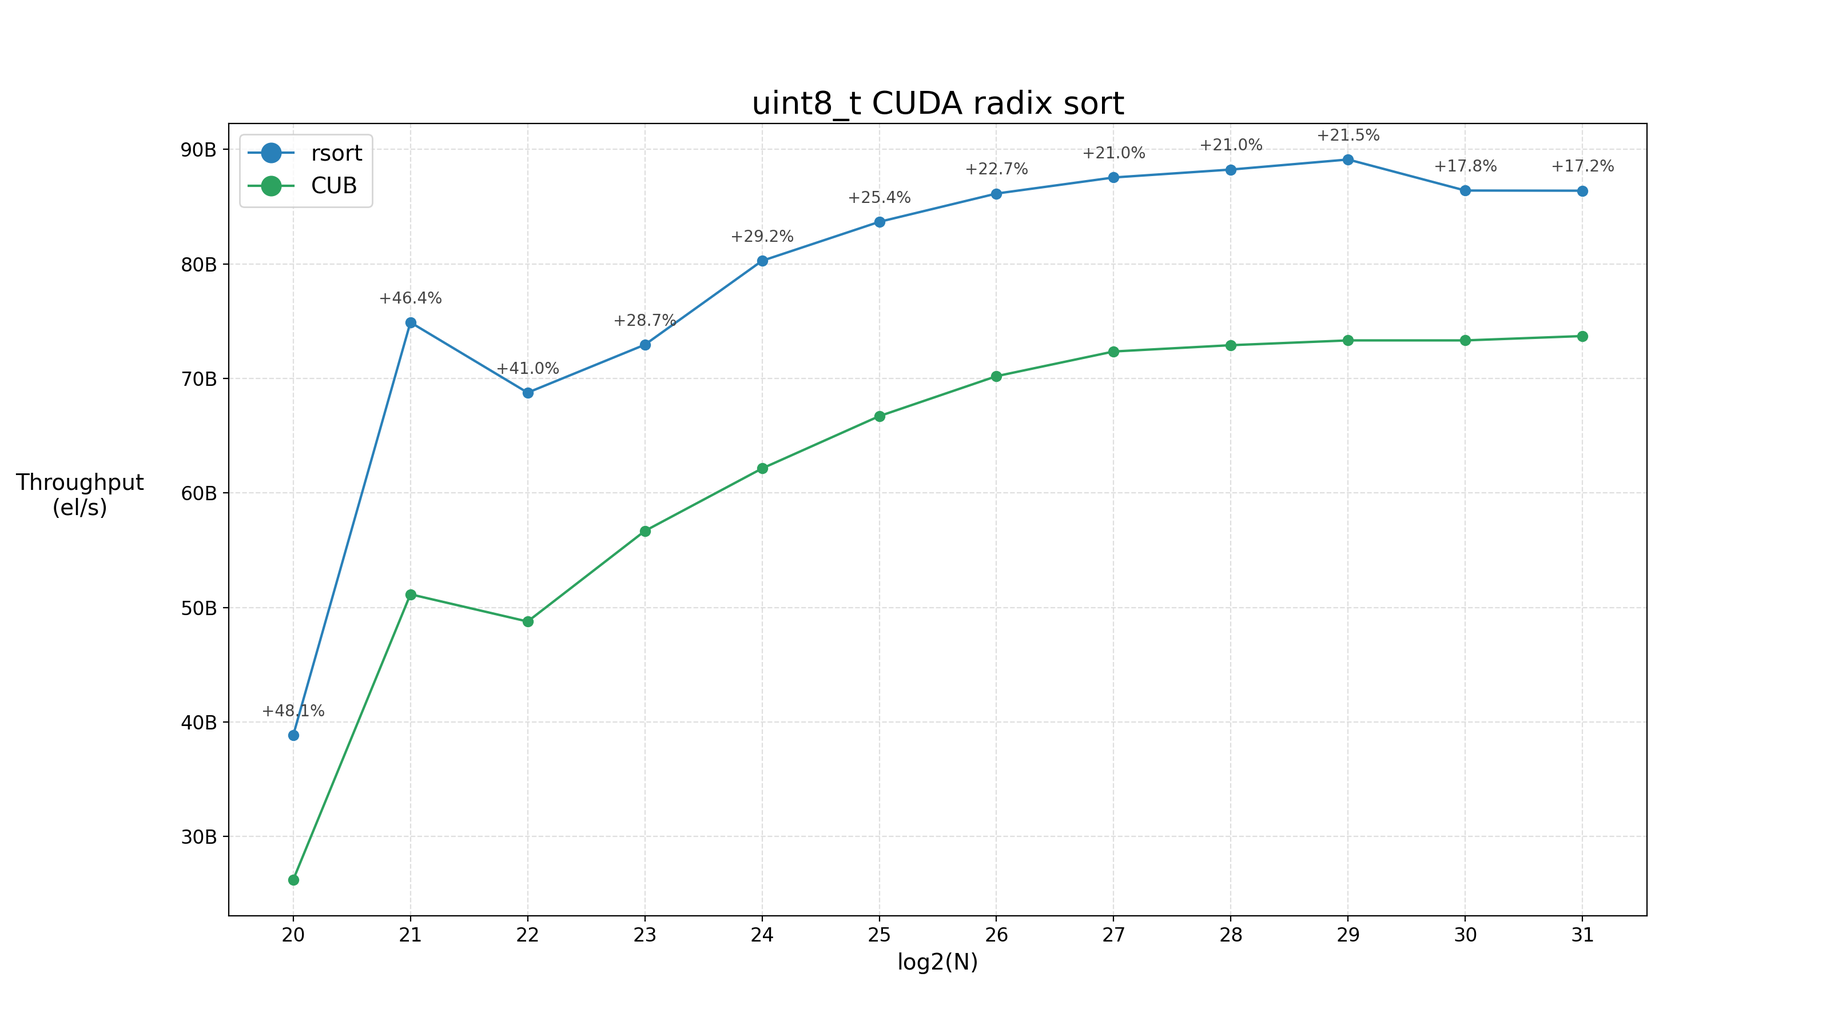
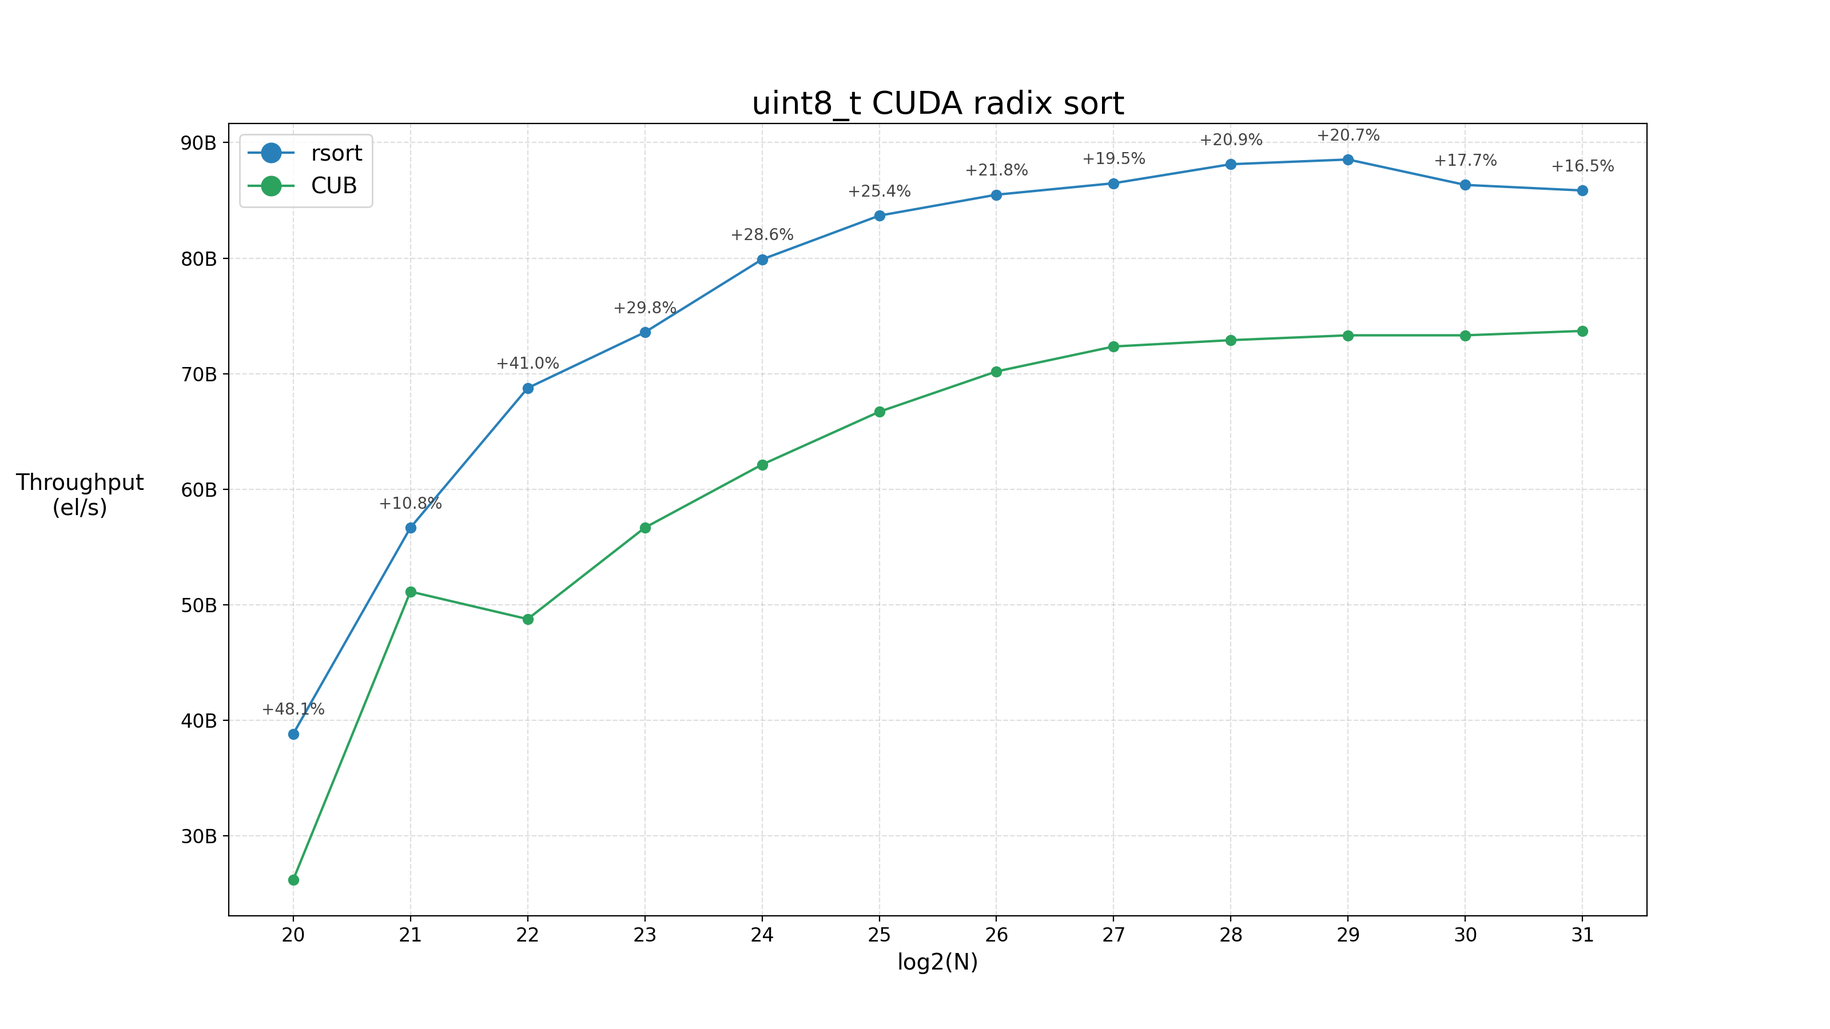
monolithic fixes, benchmark update

diff --git a/graphs/benchmark_data.py b/graphs/benchmark_data.py
@@ -16,7 +16,7 @@ scaling_avg = {
         29: (6.064 , 6.024, 7.322),
         30: (12.437, 12.426, 14.644),
         31: (25.013, 24.856, 29.137),
-        32: (49.824, 49.651, np.nan),
+        #32: (49.824, 49.651, np.nan),
     },
     "uint16_t": {
         20: (0.041 , 0.040, 0.074),
@@ -30,7 +30,7 @@ scaling_avg = {
         28: (4.521 , 4.535, 7.760),
         29: (9.013 , 9.045, 15.308),
         30: (19.145, 19.195, 30.579),
-        31: (38.705, 38.696, np.nan),
+        #31: (38.705, 38.696, np.nan),
     },
     "uint32_t": {
         20: (0.074 , 0.076, 0.088),
@@ -43,7 +43,7 @@ scaling_avg = {
         27: (5.983 , 5.990, 6.174),
         28: (12.028, 12.027, 12.261),
         29: (24.006, 24.035, 24.628),
-        30: (49.257, 49.288, np.nan),
+        #30: (49.257, 49.288, np.nan),
     },
     "uint64_t": {
         20: (0.221 , 0.247, 0.234),
@@ -55,7 +55,7 @@ scaling_avg = {
         26: (11.240, 11.393, 11.811),
         27: (22.382, 22.691, 23.591),
         28: (45.227, 46.044, 47.250),
-        29: (90.581, 92.019, np.nan),
+        #29: (90.581, 92.019, np.nan),
     },
 }
 
@@ -74,7 +74,7 @@ scaling_std = {
         29: (9.902, 15.473, 11.450),
         30: (26.406, 41.827, 41.858),
         31: (137.352, 159.801, 149.216),
-		32: (114.304, 101.326, np.nan),
+		#32: (114.304, 101.326, np.nan),
     },
 
     "uint16_t": {
@@ -89,7 +89,7 @@ scaling_std = {
         28: (2.659, 2.058, 11.064),
         29: (3.679, 2.615, 33.709),
         30: (188.889, 114.930, 221.188),
-        31: (174.418, 162.851, np.nan),
+        #31: (174.418, 162.851, np.nan),
     },
 
     "uint32_t": {
@@ -103,7 +103,7 @@ scaling_std = {
         27: (2.170, 3.884, 4.694),
         28: (8.526, 8.634, 23.467),
         29: (48.290, 100.056, 261.894),
-        30: (281.345, 313.691, np.nan),
+        #30: (281.345, 313.691, np.nan),
     },
 
     "uint64_t": {
@@ -116,7 +116,7 @@ scaling_std = {
         26: (6.888, 7.449, 7.551),
         27: (16.309, 23.859, 14.682),
         28: (226.099, 92.214, 40.631),
-        29: (453.433, 140.956, np.nan),
+        #29: (453.433, 140.956, np.nan),
     }
 }
 
@@ -164,7 +164,7 @@ data_cold_raw = {
             6.038, 6.029, 6.031, 6.034, 6.033, 6.035, 6.033, 6.033, 6.035, 6.032,
             6.033, 6.031, 6.028, 6.039, 6.031, 6.032, 6.033, 6.032, 6.038, 6.033,
             6.030, 6.035, 6.033, 6.032, 6.030, 6.035, 6.035, 6.033, 6.031, 6.033,
-        ],        
+        ],
         "cub": [
             6.235, 6.230, 6.228, 6.238, 6.237, 6.238, 6.224, 6.234, 6.242, 6.239,
             6.237, 6.237, 6.229, 6.227, 6.228, 6.235, 6.234, 6.235, 6.233, 6.233,

diff --git a/README.md b/README.md
@@ -1,7 +1,7 @@
 # Fast CUDA Radix Sort
 
 
-A CUDA implementation of Radix Sort based on [NVIDIA CUB's](https://github.com/NVIDIA/cccl/tree/main/cub) onesweep.
+A CUDA implementation of LSD radix sort based on [NVIDIA CUB's](https://github.com/NVIDIA/cccl/tree/main/cub) onesweep.
 
 Initially motivated by the GPUOpen article on [boosting GPU radix sort performance](https://gpuopen.com/learn/boosting_gpu_radix_sort/), this project started as a small educational endeavour to get familiar with CUDA and delve deeper into C++.
 The original goal was simply to build a radix sort for the GPU from scratch, without relying on third-party kernels.
@@ -219,9 +219,9 @@ It's interesting to note the drop in throughput from 2<sup>28</sup> elements onw
   <img src="graphs/scaling_uint64_t.png" width="48%" />
 </p>
 
-For 64-bit keys, the story changes slightly. Whereas rsort had the biggest advantage for 32-bit keys of smaller sizes, CUB now stays ahead for arrays of 2<sup>20</sup>, 64-bit elements. It is unclear to me why this change happens. rsort uses 448 threads per block and 6 items per thread to sort 64-bit keys; changing the policy to match CUB's geometry seems to yield very similar results. Changing other knobs in Rsort's reorder and lookback policy does not seem to move performance significantly either. As the array size increases, CUB gradually loses the performance advantage in the next two size jumps. Eventually, rsort stabilizes at about a 4% performance gain with a peak throughput of around 5.92B el/s, before falling to a 2.6% gain when turning off the lookback epoch policy at an array size of 2<sup>28</sup>. CUB's throughput peaks at around 5.69B el/s.
+For 64-bit keys, the story changes slightly. CUB starts behind by a more modest margin for smaller arrays (mainly sizes 2<sup>21</sup> and 2<sup>22</sup>), but the margin widens in favor of rsort for larger arrays. rsort uses 448 threads per block and 6 items per thread to sort 64-bit keys; changing the policy to match CUB's geometry seems to yield very similar results. Changing other knobs in Rsort's reorder and lookback policy does not seem to move performance significantly either. Eventually, rsort reaches a 5.4% performance gain with a peak throughput of around 6B el/s, before falling to a 4.5% gain when turning off the lookback epoch policy, at an array size of 2<sup>28</sup>. CUB's throughput peaks at around 5.69B el/s.
 
-Overall, standard deviations seem to be tighter for rsort across most sizes, although for 64-bit keys, CUB seems to present less jitter on average (check [benchmark_data](graphs/benchmark_data.py)). Worth noting that, in my testing, even using an average of 30 runs along with a hefty warmup configuration, standard deviation still varies quite a bit from run to run, so it is better to focus on the global picture and not read too much into specific values.
+Overall, standard deviations seem to be tighter for rsort across most sizes, although for 64-bit keys, CUB seems to present less jitter on average (check [benchmark_data](graphs/benchmark_data.py)). Worth noting that, in my testing, even using an average of 30 runs along with a hefty warmup configuration, standard deviation still varies significantly from run to run, so it is better to focus on the global picture and not read too much into specific values.
 
 <p align="center">
   <img src="graphs/scaling_uint8_t.png" width="48%" />
@@ -230,22 +230,40 @@ Overall, standard deviations seem to be tighter for rsort across most sizes, alt
 
 For 8 and 16 bits, rsort wins more clearly all around. The CTA geometry used by rsort for both cases is the same as for 32 bits. As far as I could tell, CUB does not use onesweep for keys smaller than 32 bits on sm_86, and the radix is also smaller than 8 bits. I'm not sure of the reasons behind this choice. Perhaps memory management, although looking at memory consumption, the two algorithms do not seem significantly different. Still, this means these two graphs are not comparing implementations of the same algorithm at all anymore.
 
-For 8-bit keys, initial gains for smaller arrays range from 40% to 50%, eventually dropping down to a 21% performance lead at a peak throughput of around 89.1B el/s reached for an array of 2<sup>29</sup> elements. Performance then drops again to 17%-18% from sizes 2<sup>30</sup> onwards, as rsort's lookback policy is forced into 64 bits. Interestingly, we don't see the same behaviour of dropping throughput when disabling lookback from sizes 2<sup>28</sup> to 2<sup>30</sup> that we saw for 32 and 64 bits. This is possibly explained by the smaller keys requiring larger array sizes to achieve peak throughput numbers. In fact, even at N = 2<sup>31</sup>, CUB is still peaking throughput at around 73.7B el/s.
+For 8-bit keys, initial gains for smaller arrays range from 30% to 50% (except for arrays of size 2<sup>21</sup>), eventually dropping down to a 20% performance lead at a peak throughput of around 88.5B el/s reached for an array of 2<sup>29</sup> elements. Performance then drops again to 16%-17% from sizes 2<sup>30</sup> onwards, as rsort's lookback policy is forced into 64 bits. Interestingly, we don't see the same behaviour of dropping throughput when disabling lookback from sizes 2<sup>28</sup> to 2<sup>30</sup> that we saw for 32 and 64 bits. This is possibly explained by the smaller keys requiring larger array sizes to achieve peak throughput numbers. In fact, even at N = 2<sup>31</sup>, CUB is still peaking throughput at around 73.7B el/s.
 
-It is also worth mentioning the peak in throughput that happens at N = 2<sup>21</sup> for both approaches. This appears to be an artefact of memory and how data fits in the GPU rather than an algorithmic quirk. In fact, at 1 byte per element and only 1-2M elements, I'd argue the most likely explanation is that the whole array and workspace memory fits in the GPU's L2 6MB cache. This is further corroborated by the fact that timings are almost identical for arrays of 2<sup>20</sup> and 2<sup>21</sup> 8-bit elements.
+It is also worth mentioning the peak in throughput that happens at N = 2<sup>21</sup> for CUB. This appears to be an artefact of memory and how data fits in the GPU rather than an algorithmic quirk. In fact, at 1 byte per element and only 1-2M elements, I'd argue the most likely explanation is that the whole array and workspace memory fits in the GPU's L2 6MB cache. This is further corroborated by the fact that timings are almost identical for arrays of 2<sup>20</sup> and 2<sup>21</sup> 8-bit elements.
 
-For 16 bits, rsort's performance gains are more pronounced, reaching a 112% speedup for N = 2<sup>22</sup>, eventually stabilizing at around a 70% at a peak throughput of 59.4B el/s for an array of 2<sup>29</sup> elements. The same situation seen in the 8-bit scenario then happens when the lookback is forced into 64 bits for array sizes of 2<sup>30</sup> onwards. In turn, CUB reaches a peak throughput of around 35.1B el/s for N = 2<sup>30</sup>.
-It is interesting to note that if we think about throughput in sorted bytes per second instead of sorted elements per second, we see that, for 8 bits, 89.1B bytes/s is almost the same as the 22.4 x 4 = 89.6B bytes/s figure we saw for 32-bit (4 bytes) peak throughput. However, the throughput for 16-bit keys is considerably higher, reaching a peak of 59.4 x 2 = 118.8B bytes/s, or 110.6GB/s, or (setting aside the parallelism of things for a minute) an even crazier 8.42 picoseconds per sorted byte! Enough for light to travel a bit more than 2mm. Remember this the next time your favourite AAA title dips below 60 fps 😀  maybe the hardware isn’t the only thing to blame!
+For 16 bits, rsort's performance gains are more pronounced, reaching a 117% speedup for N = 2<sup>22</sup>, eventually stabilizing at around a 70% at a peak throughput of 59.5B el/s for an array of 2<sup>29</sup> elements. The same situation seen in the 8-bit scenario then happens when the lookback is forced into 64 bits for array sizes of 2<sup>30</sup> onwards. In turn, CUB reaches a peak throughput of around 35.1B el/s for N = 2<sup>30</sup>.
+It is interesting to note that if we think about throughput in sorted bytes per second instead of sorted elements per second, we see that, for 8 bits, 88.5B bytes/s is close to the 22.4 x 4 = 89.6B bytes/s figure we saw for 32-bit (4 bytes) peak throughput. However, the throughput for 16-bit keys is considerably higher, reaching a peak of 59.5 x 2 = 119B bytes/s, or 110.8GB/s, or (setting aside the parallelism of things for a minute) an even crazier 8.40 picoseconds per sorted byte! Enough for light to travel a bit more than 2mm. Remember this the next time your favourite AAA title dips below 60 fps... maybe the hardware isn’t the only thing to blame! 😀  
  
+
+### Key-Value pairs
+
+For key-value pair sorting, the data being scattered at the end of each pass needs to be staged before it is written out. rsort supports different staging modes for keys and values. Staging can be done directly, by storing the actual key or value, or indirectly, by storing indices and then using an intermediate step to recover the corresponding data.
+Indirect staging adds extra work, so it usually has a performance cost. However, for larger keys or values, it can still be faster by reducing overall memory bandwidth or by reducing shared-memory usage, which in turn may allow better kernel geometry.
+In practice, keys are almost always staged directly. Values are staged directly by default, and only staged indirectly when the combined size of the key and value is large enough that direct staging becomes too expensive.
+
+<p align="center">
+  <img src="graphs/kv_pairs_uint32_n27.png" width="55%" />
+</p>
+
+The graph shows the results of sorting a combination of 32 and 64-bit keys and values, in rsort and CUB, for an array size of 2<sup>27</sup>.
+The current rsort policy stages all keys and values directly for all these test cases.
+For 32-bit keys and values, rsort achieves a throughput of 11.8B el/s, outperforming CUB's 11.4B el/s by 3.6%. As the size of the key-value pair increases, the advantage of rsort becomes more pronounced. For 64-bit keys with 32-bit values, the lead grows to 7.5%, while for 32-bit keys with 64-bit values, rsort is 6.7% faster. 64-bit keys obviously take more time in general as the number of actual radix passes doubles.
+The largest improvement is observed when sorting 64-bit keys paired with 64-bit values, where rsort reaches 3.04B el/s and outperforms CUB's by 12.6%.
+
+
+
 ### Cold vs. Steady state
 
-These benchmarks were carried out in _steady-state_ with significant warmup. This means the code caches and paths are pre-loaded and hot. Even though this is typically how most performance benchmarks are performed (especially for GPUs), there is value in testing algorithmic performance on more realistic conditions. A user calling a sort algorithm is most likely to do some other work after with the sorted output, possibly even outside the GPU. The above bar graph shows the results of running both states for an unsigned 32-bit array of size 2<sup>27</sup>. The _cold-state_ consists of 1 single run with no warmup of any kind. Results still correspond to an average of 30 runs performed individually and spaced out in time sufficiently to cool the GPU.
+These benchmarks were carried out in _steady-state_ with significant warmup. This means the code caches and paths are pre-loaded and hot. Even though this is typically how most performance benchmarks are performed (especially for GPUs), there is value in testing algorithmic performance on more realistic conditions. A user calling a sort algorithm is most likely to do some other work after with the sorted output, possibly even outside the GPU. The above bar graph shows the results of running both states, again for an unsigned 32-bit array of size 2<sup>27</sup>. The _cold-state_ consists of 1 single run with no warmup of any kind. Results still correspond to an average of 30 runs performed individually and spaced out in time sufficiently to cool the GPU.
 
 <p align="center">
   <img src="graphs/cold_vs_steady_uint32_n27.png" width="55%" />
 </p>
 
-In this experiment, CUB achieves a throughput of 21.7B el/s on _steady-state_ vs. 21.5B el/ for  _cold-state_, corresponding to a performance drop of around 1%. In turn, rsort manages 22.4B el/s for _steady-state_ vs 22.2B el/s on _cold-state_, which translates to a 0.7% drop. This corresponds to an advantage of around 3.1% for rsort in _steady-state_ and 3.3% in _cold-state_. 
+In this experiment, CUB achieves a throughput of 21.7B el/s on _steady-state_ vs. 21.5B el/ for  _cold-state_, corresponding to a performance drop of around 1%. In turn, rsort manages 22.4B el/s for _steady-state_ vs 22.2B el/s on _cold-state_, which translates to a 0.9% drop. This corresponds to an advantage of around 3.2% for rsort in _steady-state_ and 3.3% in _cold-state_. 
 Standard deviations are just slightly tighter for rsort in both states. However, to establish a pattern for _cold-state_ would necessitate more extensive scaling benchmarking, as done for _steady-state_.
 
 ### Short-Circuiting vs. Early-Exiting
@@ -258,30 +276,27 @@ For this experiment, we are again using _steady-state_ with 32-bit arrays of 2<s
 </p>
 
 Results show a throughput increase from 21.7B to 22.1B el/s (+1.6%) for CUB when switching from random to byte-skipped arrays. This was somewhat surprising to profile, as I assumed the work skipped would be much closer to 50%. Still, not performing any GPU work for 2 of the 4 bytes should have rsort decrease timings to about half, giving it an advantage. Indeed, results show that rsort's throughput jumps to about 40.4B el/s when sorting byte-skipped arrays in this scenario.
-As for array mode variance, results show a 2.8% performance gain for random arrays (with early-exiting enabled) against CUB, and 82.6% for short-circuiting versus early-exiting in byte-skipped arrays.
+As for array mode variance, results show a 2.8% performance gain for random arrays (with early-exiting enabled) against CUB, and 82.7% for short-circuiting versus early-exiting in byte-skipped arrays.
 
-Paying attention to the baseline random initialization results for rsort might raise the question as to why the timings are not 6.003 ms instead of the 5.990 ms seen in the last test with the same setup. This is because early-exiting is not enabled by default in rsort, and in this scenario, we are paying the cost of this mechanism explicitly. Still, in testing, the measured cost for early-exit stayed within the 10-20 µs range (13 µs here), so it's safe to say that it's not an overtly expensive optimization to perform. Also note that the performance cost of early-sxiting is solely linearly dependent on the number of passes, and constant otherwise.
+Paying attention to the baseline random initialization results for rsort might raise the question as to why the timings are not 6.003 ms instead of the 5.983 ms seen in the last test with the same setup. This is because early-exiting is not enabled by default in rsort, and in this scenario, we are paying the cost of this mechanism explicitly. Still, in testing, the measured cost for early-exit stayed within the 10-25 µs range (20 µs here), so it's safe to say that it's not an overtly expensive optimization to perform. Also, note that the performance cost of early-sxiting is solely linearly dependent on the number of passes, and constant otherwise.
 
-I think it is worth noting that the comparison between these mechanisms should not invalidate either of them, as they are mutually exclusive and operate at different levels (globally and CTA). Therefore, any implementation could definitely, and probably should, benefit from implementing both techniques. 
+I think it is worth noting that the comparison between these mechanisms should not invalidate either of them, as they are mutually exclusive and operate at different levels (globally vs CTA). Therefore, any implementation definitely could, and probably should, benefit from implementing both techniques. 
+
 
 ### 128-bit results
 
-This scenario consists of a preliminary experiment for sorting 128-bit arrays (again, unsigned keys, _steady-state_). Ultimately, this should be a scaling graph like the first four, but to avoid cluttering this benchmarking section and sparing my poor GPU of further torture, let's stick with the sizes with the highest potential for peak throughput that fit in GPU VRAM (max 12GB). For array sizes of 2<sup>27</sup> elements, rsort achieves a throughput of around 1.49B el/s when compared to CUB's 1.45B el/s, representing a speedup of around 2.4%. This throughput figure reduces slightly to 1.46B el/s for N = 2<sup>28</sup>.
+This scenario consists of a preliminary experiment for sorting 128-bit arrays (again, unsigned keys, _steady-state_). Ultimately, this should be a scaling graph like the first four, but to avoid cluttering this benchmarking section and sparing my poor GPU of further torture, let's stick with the sizes with the highest potential for peak throughput that fit in GPU VRAM and don't OOM.
+For array sizes of 2<sup>26</sup> elements, rsort achieves a throughput of around 1.49B el/s when compared to CUB's 1.46B el/s, representing a speedup of around 2.1%.
+For N = 2<sup>27</sup>, rsort's throughput remains roughly the same, while CUB's decreases slightly to 1.45B el/s, translating to a speedup of 2.3%.
 
 <p align="center">
   <img src="graphs/benchmark_128bit.png" width="55%" />
 </p>
 
-Disclaimer: Here we are not comparing with CUB's DoubleBuffer, meaning the input preserving requirement makes it so that sorting this many 128-bit elements exceeds available VRAM, resulting in OOM. Standard deviations for CUB seem to hint towards less jitter than rsort for this scenario. Again, further scaling tests are needed in order to assert this.
-
-### KV Pair - preliminary results (TODO)
-
-**Rsort vs CUB:**
-
-- 32/32 bits - 11.340 ms (+- 3.147 us) | 11.776 ms (+- 10.546 us)
-- 64/32 bits - 33.606 ms (+- 28.531 us) | 36.104 ms (+- 48.020 us)
-- 32/64 bits - 16.756 ms (+- 6.915 us) | 17.898 ms (+- 17.493 us)
-- 64/64 bits - 44.109 ms (+- 20.177 us) | 49.666 ms (+- 50.112 us)
+<!--
+Disclaimer: Here we are not comparing with CUB's DoubleBuffer, meaning the input preserving requirement makes it so that sorting this many 128-bit elements exceeds available VRAM, resulting in OOM. 
+-->
+Standard deviations for CUB seem to hint towards less jitter than rsort for this scenario. Again, further scaling tests are needed in order to assert this.
 
 
 ### TL;DR
@@ -292,6 +307,7 @@ Disclaimer: Here we are not comparing with CUB's DoubleBuffer, meaning the input
 - Optimizations described reduce runtime (significantly in more favourable scenarios).
 - Performance gains in both _steady_ and _cold_ states.
 - Low run-to-run variance, also identical to CUB, overall.
+- 
 
 
 ## Validation
@@ -320,14 +336,14 @@ Performs a validation run, calling a single benchmark with no warmup for all def
 
 ## Releases
 
-Checklist of standardization efforts from Release 2 onwards:
+Checklist of standardization efforts for all releases from version v0.2.0 onwards:
 
   - Validation suite passes all test in both Windows (MSVC) and Linux (gcc):
       - Linux: 3168/3168 tests passed (signed and unsigned 128-bit integers).
       - Windows: 2200/2200 tests passed.
   - Compilation of all templating (validation) must return no warnings with both `-std=c++17` and `-std=c++20` flag standards, for Windows (MSVC), and for Linux (gcc).
   - Updated [monolithic header](monolithic/rsort.cuh).
-  - Updated benchmarking data.
+  <!-- - Updated benchmarking data. -->
 
 ## Notes and Disclaimers
 

diff --git a/THIRD_PARTY_NOTICE.md b/THIRD_PARTY_NOTICE.md
@@ -1,0 +1,5 @@
+Parts of this project were developed with reference to NVIDIA CCCL (CUB).
+CUB is licensed under the Apache License 2.0.
+
+Copyright (c) NVIDIA Corporation.
+https://github.com/NVIDIA/cccl
